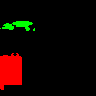
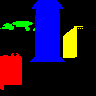
add perso

Changed region(s): [[0.3125, 0.0, 0.875, 0.6562]]

diff --git a/map.js b/map.js
@@ -23,6 +23,14 @@ var maps = {
         },
         "path": {}
     },
+    "docteur_reverso": {
+        "infos": {
+            "title": "docteur_reverso",
+            "description": "",
+            "frames": "1",
+        },
+        "path": {}
+    },
     "enilma": {
         "infos": {
             "title": "Enilma",
@@ -49,7 +57,9 @@ var maps = {
             "description": "Gunda est l'un des trois enfants de Xiu et est d'un passif lassé et provocateur. Son idéologie se base sur une peur irrationnelle de la mort l'entraînant à penser que ses désirs passent avant absolument tout quitte à ruiné des années de travail dans le but de faire un maximum de chose avant de mourir. Malgré ses pulsions qui le poussent à réaliser des actes terribles, il reste la tête du groupe du ‘S’. Son pouvoir se base sur la téléportation de lui où d'objets couplet avec une capacité de dimensions de poche où il peut mettre de petits objets. Bien qu'au quotidien il se fasse passer pour un simple informaticien de la tour il est un criminel recherché et un combattant redoutable ayant tué déjà beaucoup de héros. S'il a pris part au projet de Koto de mettre fin au monde c'est car l'idée l'amusait. N'importe quelle chose qui se met en travers de son chemin est anéanti par sa personne si ça le dérange, finalement la seule chose qui l'empêche de tuer tout ce qui bouge c'est Oto qui le raisonne quand il vrille. Comme sont frères Gunda à hérité du gène du Chaos et est donc une fois activé capable de téléporter des cargo entier où de faire de sa dimension de poche une boule trou noir dans sa main pour absorber des parties du corps de son adversaire, il sera également en possession d'un gène complet lui permettant de téléporté le temps lui-même, pouvoir qu'il utilisera pour une autre personne que lui-même, pour fille adoptive après avoir eu un violent coup de réalité. Ce coup de réalité concerne la mort de son amie d'enfance et collègue en plus d'être une amante. Cela lui causera pendant un arc entier un fort deuil, de l'alcoolisme et des périodes de violence extrême. À ce moment il se rend compte qu'il existe plus cruelle que lui et que se favoriser soit ne peut toujours le combler car parfois c'est dans la stabilité et en entretenant nos liens avec les autres que vient la joie. Ainsi il acceptera définitivement son rôle de père plutôt que de mentor à l'égard de Koto, acceptera enfin Oto comme son frère et reprendra le projet de fin du monde.Comme son frère il soufra des expériences de la tour qui essayaient de dupliquer le gène du chaos à travers une progéniture entre Xiu le génocidaire et sa sœur (qui en réalité n'est pas sa sœur du tout, elle n'est ni de sa famille ni de sa connaissance, elle est une parfaite inconnue). Ainsi il vivra sans recevoir d'amour de sa mère, sans savoir qui était son père et condamné à voir son frère qu'à travers une vitre de laboratoire. Il est également manieur de 'la lame monde' car il a passé le plus de temps à la manier. Souvent il laisse exploser ses émotions au détriment des autres par exemple il essayera de tuer sa fille dans un excès de tristesse et de deuil après la mort de sa meilleure amie. Malgré sa nature destructrice il a reçu le respect de Téros non seulement car il est le fils de son mentor mais aussi car selon lui si Gunda était la meilleure version de de lui-même, serait un homme formidable. Malgré tout il reste un criminel qui est soumis à ses pulsions de violence et se montre cruel quand pousser à bout comme avec Reck ou aimable quand l'envie lui prend comme avec le petit garçon du bar. Secrètement comme son frère il manque d'affection mais aussi de stabilité mais à beaucoup trop d'ego pour le montrer. Des trois enfants de Xiu, c'est celui qui a le plus hérité de son caractère. Pourtant en termes de cruauté cela ne concerne que ses plans et ses raisonnements mais en terme d'action pur c'est son frère Oto qui est le pire. Malgré le fait qu'Oto est le plus vieux frère de quelques secondes et que théoriquement c'est son corps c'est Gunda qui le contrôle le plus souvent et qui peut en prendre l'ascendant. En effet les deux frères vivaient petits séparément mais lors de leur premier contact après l'accident du labo. Ils ont fusionné due au fait qu'Oto et Gunda sont le même bébé fragmenté en deux être différent à la naissance (aptitudes qu'a là mère), c'est après avoir enfin quitté le labo, perdu leur innocence et développer une rage sans fin contre la Tour qu'ils vont s'échapper du laboratoire tuant tout autres scientifique croisé, cette situation fut entraîné par des scientifiques tentant de les tuer car ils sont les enfants de Xiu l'homme le plus détesté au monde. Ce qui leur vaudra leurs traumas respectifs en entraînera un abandon du projet initial pour leur sécurité remplacé par une tentative de contrôle mentale direct par des vidéos à images subliminal (échouées) plutôt que par un long développement tout au long de leur jeunesse, changement qui amènera à l'accident du laboratoire et à ce combat contre la Tour. Xiu est fière du chemin parcouru par son fils à la fin après la résurrection de Xiu, il montrera beaucoup d'intérêt pour son fils pour ses accomplissement et ses talents de combat. Du moment que quelqu'un l'intéresse il est assez serviable et discret, quand il le lasse il devient froid et agressif et quand il n'est plus amusé du tout, vous savez ce qu'il se passe…",
             "frames": "1",
         },
-        "path": {}
+        "path": {
+            "255.0.0": "oto"
+        }
     },
     "hanita": {
         "infos": {
@@ -99,7 +109,9 @@ var maps = {
             "description": "",
             "frames": "1",
         },
-        "path": {}
+        "path": {
+            "255.0.0": "la_montagne_inversee"
+        }
     },
     "l_hotel_lyric": {
         "infos": {
@@ -116,6 +128,16 @@ var maps = {
             "frames": "1",
         },
         "path": {}
+    },
+    "l_ile_flottante": {
+        "infos": {
+            "title": "L'île flottante",
+            "description": "",
+            "frames": "1",
+        },
+        "path": {
+            "255.0.0": "le_temple_des_elements"
+        }
     },
     "l_ile_volcanique": {
         "infos": {
@@ -157,6 +179,8 @@ var maps = {
         "path": {
             "255.0.0": "le_trio_x",
             "0.255.0": "l_horloge_sur_la_montagne",
+            "0.0.255": "le_poisson",
+            "255.255.0": "le_laboratoire_du_docteur_reverso"
         }
     },
     "la_capitale": {
@@ -202,7 +226,9 @@ var maps = {
             "0.0.255": "la_tour",
             "255.255.0": "la_maison_de_gunda_et_oto",
             "255.0.255": "uh_oh",
-            "0.255.255": "star_city"
+            "0.255.255": "star_city",
+            "100.0.255": "reck",
+            "100.0.100": "xiu"
         }
     },
     "la_dimension_des_coroses": {
@@ -235,7 +261,20 @@ var maps = {
             "description": "La maison de Gunda est donc la maison où lui, son frère et Koto vivent, c'était avant un vieux gymnase qui fut abandonnée pour construire les villes plus loins. Maintenant après de long travaux c'est devenu une maison habitable, c'est aussi leur QG en tant que vilain. Après l'arrivée de Koto pas mal de chose ont du être changé tel que des monté plutôt que des marches, une douche plutôt qu'une baignoire. À l'arrière de la maison ont peut retrouver une sorte de décharge avec tout un tas de taule ou d'objets en métaux en train de rouillé. Il n'y à pas de réelle raison à la présence de ces choses mais ce n'est pas pour déplaire à Koto. La maison est sur élève sur une colline et est reculé d'absolument tout, que ce soit pour aller à la tour ou à la ville ont passe forcément par des bois épais.",
             "frames": "1",
         },
-        "path": {}
+        "path": {
+            "255.0.0": "gunda"
+        }
+    },
+    "la_montagne_inversee": {
+        "infos": {
+            "title": "La montagne inversee",
+            "description": "",
+            "frames": "1",
+        },
+        "path": {
+            "255.0.0": "l_ile_flottante",
+            "0.255.0": "le_territoire_du_dieu_de_la_musique"
+        }
     },
     "la_salle_d_entrainement": {
         "infos": {
@@ -316,6 +355,16 @@ var maps = {
         },
         "path": {}
     },
+    "le_laboratoire_du_docteur_reverso": {
+        "infos": {
+            "title": "Le laboratoire du docteur reverso",
+            "description": "",
+            "frames": "1",
+        },
+        "path": {
+            "255.0.0": "docteur_reverso"
+        }
+    },
     "le_laboratoire_secret": {
         "infos": {
             "title": "Le laboratoire secret",
@@ -362,6 +411,22 @@ var maps = {
         },
         "path": {}
     },
+    "le_temple_des_elements": {
+        "infos": {
+            "title": "Le temple des elements",
+            "description": "",
+            "frames": "1",
+        },
+        "path": {}
+    },
+    "le_territoire_du_dieu_de_la_musique": {
+        "infos": {
+            "title": "Le territoire du dieu de la musique",
+            "description": "",
+            "frames": "1",
+        },
+        "path": {}
+    },
     "le_trio_x": {
         "infos": {
             "title": "Le trio X",
@@ -370,6 +435,8 @@ var maps = {
         },
         "path": {
             "255.0.0": "ou_voulez_vous_aller",
+            "0.255.0": "mike",
+            "255.0.255": "zoe"
         }
     },
     "leo": {
@@ -390,9 +457,25 @@ var maps = {
             "255.0.0": "adam"
         }
     },
+    "les_rues_de_neoki": {
+        "infos": {
+            "title": "Les rues de neoki",
+            "description": "",
+            "frames": "1",
+        },
+        "path": {}
+    },
     "marin": {
         "infos": {
             "title": "Marin",
+            "description": "",
+            "frames": "1",
+        },
+        "path": {}
+    },
+    "marine": {
+        "infos": {
+            "title": "Marine",
             "description": "",
             "frames": "1",
         },
@@ -460,7 +543,8 @@ var maps = {
             "frames": "1",
         },
         "path": {
-            "255.0.0": "hanita"
+            "255.0.0": "hanita",
+            "0.255.0": "les_rues_de_neoki"
         }
     },
     "neviss": {
@@ -485,7 +569,9 @@ var maps = {
             "description": "Oto est le frère de Gunda, il est plus âgé de quelques secondes. L'aptitude de leur mère étant séparée un être en deux, il est donc logiquement le vrai corps. Il était plus simple pour les scientifiques de voir lui et Gunda comme des frères que comme un seul être séparé en deux. Malgré que ce soit son corp Oto n'a le contrôle que rarement, il laisse Gunda aux commandes car il est plus réfléchi malgré son instabilité. Oto à beaucoup d'admiration pour son frère pour son courage, son intelligence et sa force ce qui l'a éclipsé de toute relation sociale. Pour être crédible dans le monde du travail Gunda dit que son aptitude est de changer de personnalité ainsi Oto à vécu sa vie à être appelé Gunda et être considérés comme une anomalie. Son désir d'attention n'a fait que s'accentuer quand Gunda adopte Koto, il se satisfera à l'idée de la traiter comme une reine et prendre le rôle de serviteur, rôle qui le débecte mais pour avoir de l'attention il est prêt à tout. Il à un tempérament très passif et calme en plus d'être manipulateur n'hésitant pas à jouer sur les émotions des gens. Lors de l'accident de l'apparition de Niko il perdra une collègue, seule personne qui le considérait comme un tout et non une addition à Gunda. Il restera silencieux pendant longtemps en essayant de maintenir Gunda calme suite à ses crises de colère destructrice jusqu'au moment où il eut un trop plein de peine. Oto finira par sérieusement s'énerver et prendra le contrôle sur sa vie en prenant contrôle de son corp plus souvent (car Gunda et Oto sont deux conscience dans le même corp qui se sont retrouver mélanger), il prendra le rôle d'oncle pour Koto laissant son rôle de serviteur de côté pour maintenant réellement être un membre de la famille, et avoir des collègues qui le considère comme un être à part entière. Il se révèlera être un bon oncle pour Koto et veillera à son éducation mais aussi un atout de puissance. L'aptitude d'Oto est l'attraction et la manipulation c'est à dire modelé la matière là déformé et la manipuler mais aussi attiré les objets ou les repousser. C'est grâce à cette aptitude surpuissante qu'il est capable d'arracher des étoiles du ciel pour les faires s'écraser sur l'ennemi, à son summum avec le gène du chaos entièrement activé, il est capable de manipuler les atomes et réformé le corp humain totalement. Ont pourrais dire qu'Oto n'a pas mauvais fond mais ce serait oublier qu'il reste violent et dangereux. Gunda qui le méprisait légèrement finira par le respecter quand il se montrera enfin capable de prendra l'ascendant sur le corps et de ne plus être son ombre. Oto était en général celui qui avait le contrôle s'il fallait tuer, il est celui qui à le plus souffert du manque d'amour maternelle et paternelle c'est pourquoi quand il verra son père c'est lui qui restera quasiment tout le long de la discussion aux commandes du corps. Ont pourrais dire qu'Oto dans un sens n'a jamais grandis et reste un enfant avec un pouvoir bien trop grand, en général, Oto à affronter des ennemis infiniment plus puissant et dangereux que son frère puisque lui est la puissance et son frère le cerveaux du duo, cependant il est loin d'être bête, c'est son côté impulsifs et son manque de recule qui fait qu'il semble agire sans réfléchir. C'est lui qui essayera de maintenir Gunda de tué sa fille, de détruire la ville ou de faire certain choix qui ruinerait leur plan de fin du monde donc souvent il est la voix de la raison pour Gunda quand il devient incontrôlable bien qu'il se fasse insulter constamment par celui ci. Quand les deux frères apprennent enfin à vivre ensemble et à s'apprécier et que Gunda révèle à son frère qu'il ne le déteste pas tant que ça. Ce fut le moment le plus important pour Oto.",
             "frames": "1",
         },
-        "path": {}
+        "path": {
+            "255.0.0": "gunda"
+        }
     },
     "ou_voulez_vous_aller": {
         "infos": {
@@ -546,7 +632,11 @@ var maps = {
             "description": "Starcity est une cité classique avec de grands bâtiments et hlm, c'est un endroit idéal pour un discours mais aussi c'est l'endroit où beaucoup de héros habites. Il y a autre chose, c'est ici que se trouve l'organisation de Téros, une sorte de large bâtiment avec dedans dans une pièce un arbre illuminé par un plafond en vitre, avec un sol verdoyant et des vitres teintées sur les murs. Le taux de criminalité y est relativement haut mais c'est à cet endroit qu'il y à le plus de concentration d'habitants donc c'est dans Starcity qu'il y à le plus de publicité pour la Tour, de manifestation anti système et c'est également là que sont crée des objets sur mesure pour aidé à l'utilisation d'aptitudes de client, c'est là que se situe la branche technologique de la Tour, son centre d'économie, la maison de Luca, mais c'est aussi un endroit où ont peut acheter beaucoup d'armes, et où l'on risque de croiser les Kame.",
             "frames": "1",
         },
-        "path": {}
+        "path": {
+            "255.0.0": "teros",
+            "0.255.0": "qizil",
+            "0.0.255": "uz"
+        }
     },
     "stratos": {
         "infos": {

diff --git a/mapsbis.js b/mapsbis.js
@@ -1,1 +1,3 @@
-var map = {}
+var map = {
+
+}
